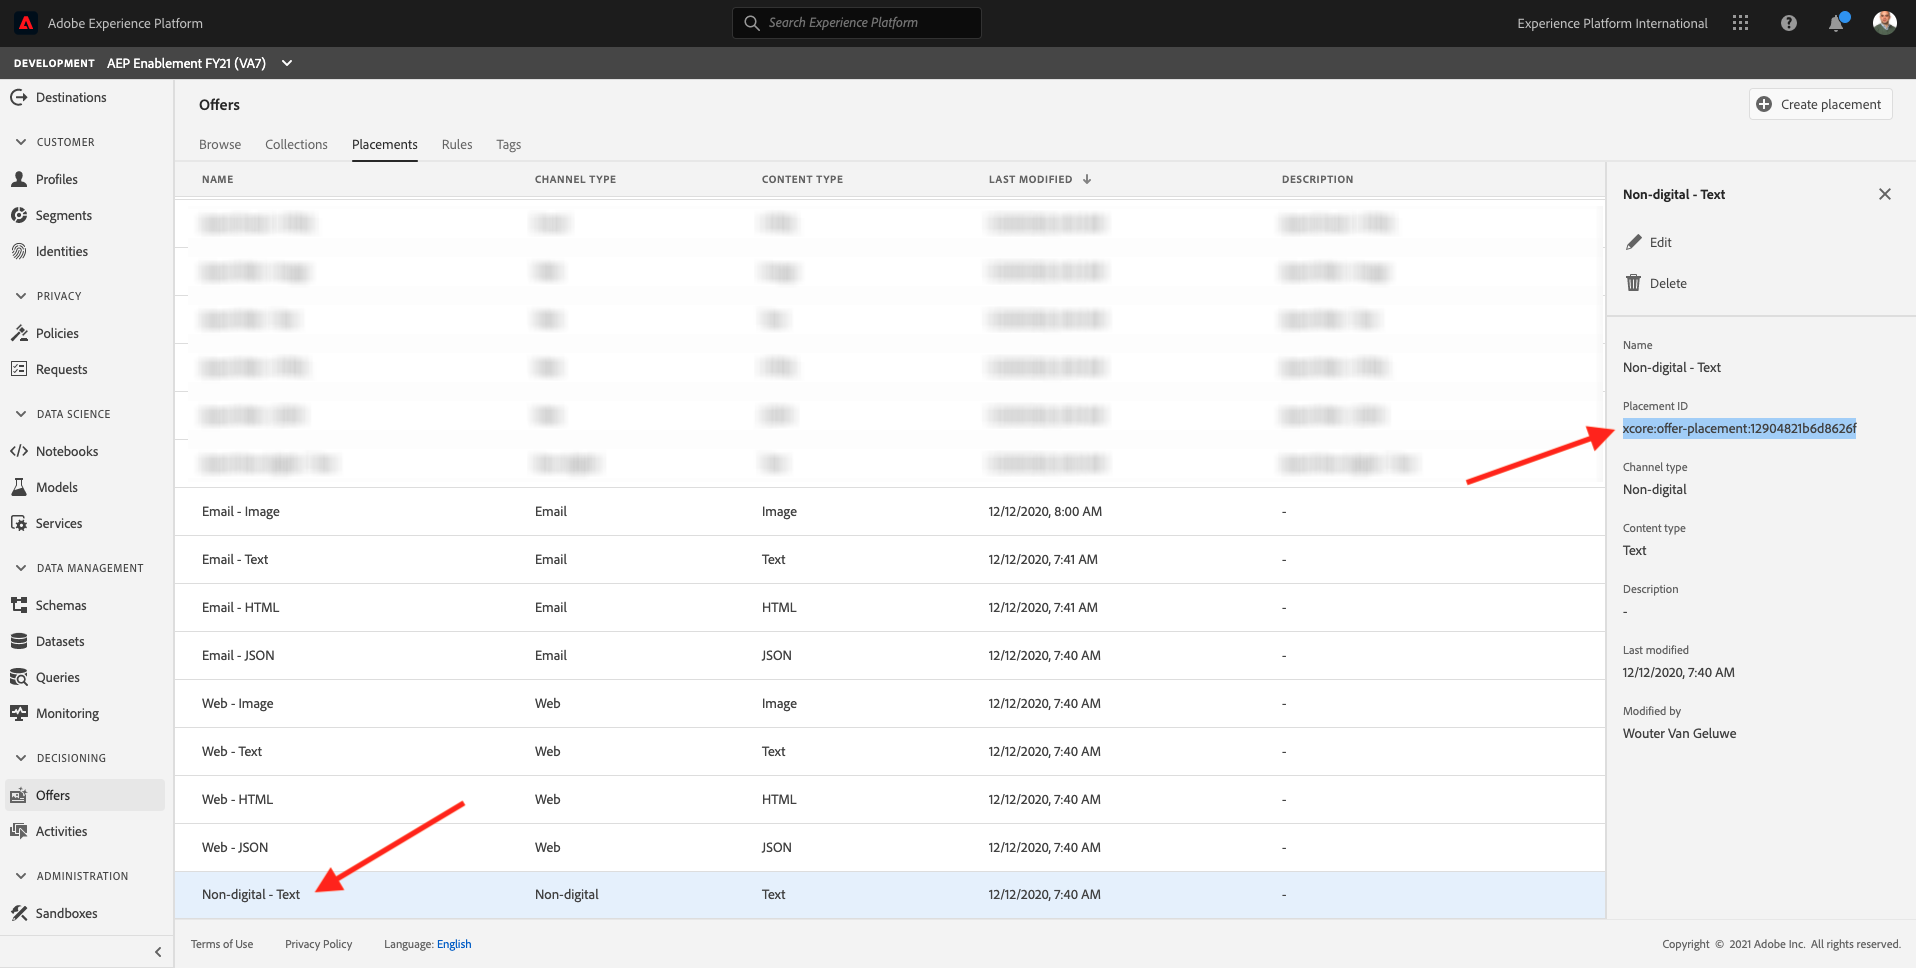
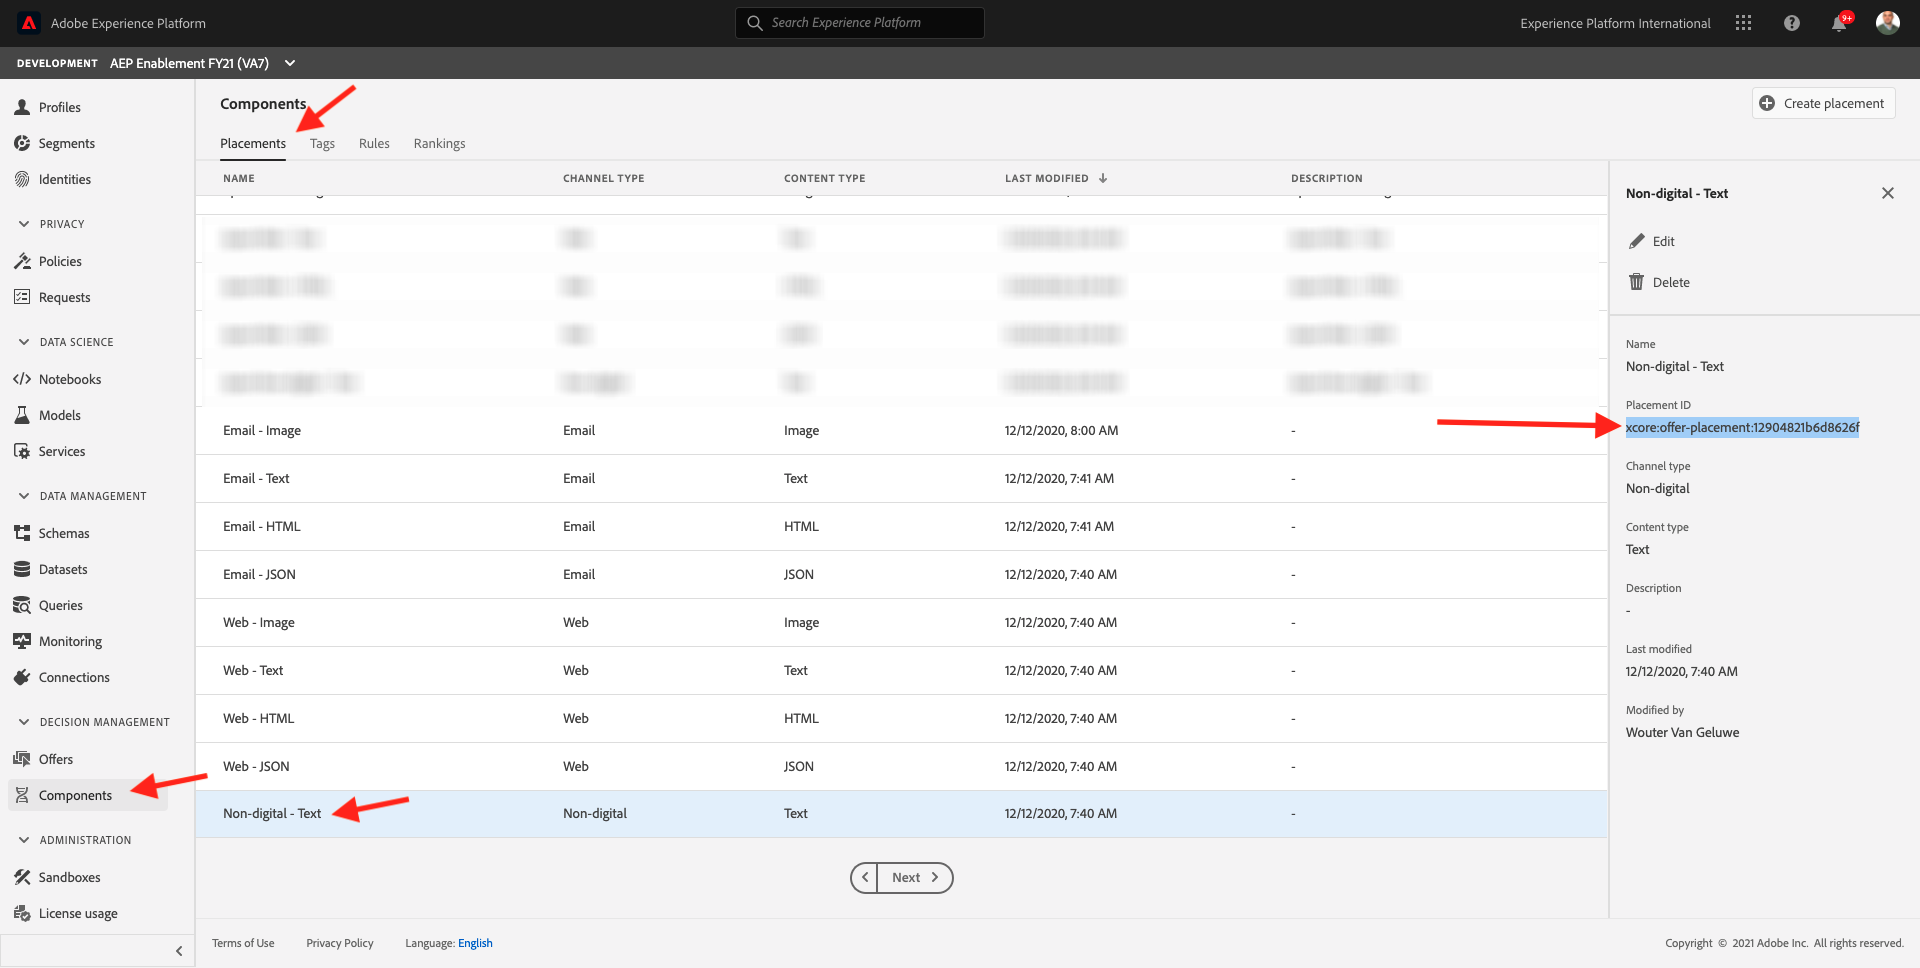
update to module 14

diff --git a/help/tutorial-comprehensive-technical-v21/modules/module14/ex6.md b/help/tutorial-comprehensive-technical-v21/modules/module14/ex6.md
@@ -363,7 +363,7 @@ Next, click the parameter `dynamic val.: eventNS`. For `eventNS`, you need to se
 
 ![Demo](./images/dyn2.png)
 
-Next, click the parameter `dynamic val.: placementId`. For `placementId`, you need to enter the **[!UICONTROL Offer Decisioning Placement ID]** for the placement [!UICONTROL Non-digital - Text]. You can find the **[!UICONTROL Offer Decisioning Placement ID]** by going into Adobe Experience Platform, to Offers, to Placements, and by selecting the placement [!UICONTROL Non-digital - Text].
+Next, click the parameter `dynamic val.: placementId`. For `placementId`, you need to enter the **[!UICONTROL Offer Decisioning Placement ID]** for the placement [!UICONTROL Non-digital - Text]. You can find the **[!UICONTROL Offer Decisioning Placement ID]** by going into Adobe Experience Platform, to Components, to Placements, and by selecting the placement [!UICONTROL Non-digital - Text].
 
 ![Demo](./images/dyn3.png)
 
@@ -373,17 +373,17 @@ Copy the [!UICONTROL Placement ID] and paste it into the popup in Journey Orches
 
 ![Demo](./images/dyn4.png)
 
-Next, click the parameter `dynamic val.: activityId`. For `activityId`, you need to enter the **[!UICONTROL Offer Decisioning Activity ID]**. You can find the **[!UICONTROL Offer Decisioning Activity ID]** by going into Adobe Experience Platform, to Offers, to Activities, and by selecting your Activity.
+Next, click the parameter `dynamic val.: activityId`. For `activityId`, you need to enter the **[!UICONTROL Offer Decisioning Decision ID]**. You can find the **[!UICONTROL Offer Decisioning Decision ID]** by going into Adobe Experience Platform, to Offers, to Decisions, and by selecting your Decision.
 
 ![Demo](./images/dyn5.png)
 
-Copy the [!UICONTROL Activity ID] and paste it into the popup in Journey Orchestration, and don't forget to add `"` at the beginning and ending of the [!UICONTROL Activity ID]. It should look like this:
+Copy the [!UICONTROL Decision ID] and paste it into the popup in Journey Orchestration, and don't forget to add `"` at the beginning and ending of the [!UICONTROL Decision ID]. It should look like this:
 
 `"xcore:offer-activity:1290525f4441fd6e"`
 
 ![Demo](./images/dyn6.png)
 
-Next, click the parameter `dynamic val.: containerId`. For `containerId`, you need to enter the **container instanceId**, which you retrieved through the API in the previous exercise. Copy the container instanceId and don't forget to add `"` at the beginning and ending of the [!UICONTROL Activity ID]. It should look like this:
+Next, click the parameter `dynamic val.: containerId`. For `containerId`, you need to enter the **container instanceId**, which you retrieved through the API in the previous exercise. Copy the container instanceId and don't forget to add `"` at the beginning and ending of the [!UICONTROL Decision ID]. It should look like this:
 
 `"32a2cb0f-63f8-3388-b156-94f4d917abe7"`
 
@@ -534,7 +534,7 @@ Next, click the parameter `dynamic val.: eventNS`. For `eventNS`, you need to se
 
 ![Demo](./images/dyn2a.png)
 
-Next, click the parameter `dynamic val.: placementId`. For `placementId`, you need to enter the **[!UICONTROL Offer Decisioning Placement ID]** for the placement [!UICONTROL Email - Image]. You can find the **[!UICONTROL Offer Decisioning Placement ID]** by going into Adobe Experience Platform, to Offers, to Placements, and by selecting the placement [!UICONTROL Email - Image].
+Next, click the parameter `dynamic val.: placementId`. For `placementId`, you need to enter the **[!UICONTROL Offer Decisioning Placement ID]** for the placement [!UICONTROL Email - Image]. You can find the **[!UICONTROL Offer Decisioning Placement ID]** by going into Adobe Experience Platform, to Components, to Placements, and by selecting the placement [!UICONTROL Email - Image].
 
 ![Demo](./images/dyn3a.png)
 
@@ -544,17 +544,17 @@ Copy the [!UICONTROL Placement ID] and paste it into the popup in Journey Orches
 
 ![Demo](./images/dyn4a.png)
 
-Next, click the parameter `dynamic val.: activityId`. For `activityId`, you need to enter the **[!UICONTROL Offer Decisioning Activity ID]**. You can find the **[!UICONTROL Offer Decisioning Activity ID]** by going into Adobe Experience Platform, to Offers, to Activities, and by selecting your Activity.
+Next, click the parameter `dynamic val.: activityId`. For `activityId`, you need to enter the **[!UICONTROL Offer Decisioning Decision ID]**. You can find the **[!UICONTROL Offer Decisioning Decision ID]** by going into Adobe Experience Platform, to Offers, to Decisions, and by selecting your Decision.
 
 ![Demo](./images/dyn5.png)
 
-Copy the [!UICONTROL Activity ID] and paste it into the popup in Journey Orchestration, and don't forget to add `"` at the beginning and ending of the [!UICONTROL Activity ID]. It should look like this:
+Copy the [!UICONTROL Decision ID] and paste it into the popup in Journey Orchestration, and don't forget to add `"` at the beginning and ending of the [!UICONTROL Decision ID]. It should look like this:
 
 `"xcore:offer-activity:1290525f4441fd6e"`
 
 ![Demo](./images/dyn6a.png)
 
-Next, click the parameter `dynamic val.: containerId`. For `containerId`, you need to enter the **container instanceId**, which you retrieved through the API in the previous exercise. Copy the container instanceId and don't forget to add `"` at the beginning and ending of the [!UICONTROL Activity ID]. It should look like this:
+Next, click the parameter `dynamic val.: containerId`. For `containerId`, you need to enter the **container instanceId**, which you retrieved through the API in the previous exercise. Copy the container instanceId and don't forget to add `"` at the beginning and ending of the [!UICONTROL Decision ID]. It should look like this:
 
 `"32a2cb0f-63f8-3388-b156-94f4d917abe7"`
 
@@ -602,7 +602,7 @@ Next, click the parameter `dynamic val.: eventNS`. For `eventNS`, you need to se
 
 ![Demo](./images/dyn2.png)
 
-Next, click the parameter `dynamic val.: placementId`. For `placementId`, you need to enter the **[!UICONTROL Offer Decisioning Placement ID]** for the placement [!UICONTROL Non-digital - Text]. You can find the **[!UICONTROL Offer Decisioning Placement ID]** by going into Adobe Experience Platform, to Offers, to Placements, and by selecting the placement [!UICONTROL Non-digital - Text].
+Next, click the parameter `dynamic val.: placementId`. For `placementId`, you need to enter the **[!UICONTROL Offer Decisioning Placement ID]** for the placement [!UICONTROL Non-digital - Text]. You can find the **[!UICONTROL Offer Decisioning Placement ID]** by going into Adobe Experience Platform, to Components, to Placements, and by selecting the placement [!UICONTROL Non-digital - Text].
 
 ![Demo](./images/dyn3.png)
 
@@ -612,17 +612,17 @@ Copy the [!UICONTROL Placement ID] and paste it into the popup in Journey Orches
 
 ![Demo](./images/dyn4.png)
 
-Next, click the parameter `dynamic val.: activityId`. For `activityId`, you need to enter the **[!UICONTROL Offer Decisioning Activity ID]**. You can find the **[!UICONTROL Offer Decisioning Activity ID]** by going into Adobe Experience Platform, to Offers, to Activities, and by selecting your Activity.
+Next, click the parameter `dynamic val.: activityId`. For `activityId`, you need to enter the **[!UICONTROL Offer Decisioning Decision ID]**. You can find the **[!UICONTROL Offer Decisioning Decision ID]** by going into Adobe Experience Platform, to Offers, to Decisions, and by selecting your Decision.
 
 ![Demo](./images/dyn5.png)
 
-Copy the [!UICONTROL Activity ID] and paste it into the popup in Journey Orchestration, and don't forget to add `"` at the beginning and ending of the [!UICONTROL Activity ID]. It should look like this:
+Copy the [!UICONTROL Decision ID] and paste it into the popup in Journey Orchestration, and don't forget to add `"` at the beginning and ending of the [!UICONTROL Decision ID]. It should look like this:
 
 `"xcore:offer-activity:1290525f4441fd6e"`
 
 ![Demo](./images/dyn6.png)
 
-Next, click the parameter `dynamic val.: containerId`. For `containerId`, you need to enter the **container instanceId**, which you retrieved through the API in the previous exercise. Copy the container instanceId and don't forget to add `"` at the beginning and ending of the [!UICONTROL Activity ID]. It should look like this:
+Next, click the parameter `dynamic val.: containerId`. For `containerId`, you need to enter the **container instanceId**, which you retrieved through the API in the previous exercise. Copy the container instanceId and don't forget to add `"` at the beginning and ending of the [!UICONTROL Decision ID]. It should look like this:
 
 `"32a2cb0f-63f8-3388-b156-94f4d917abe7"`
 

diff --git a/help/tutorial-comprehensive-technical-v21/modules/module14/ex1.md b/help/tutorial-comprehensive-technical-v21/modules/module14/ex1.md
@@ -25,7 +25,7 @@ Working with Offer Decisioning, you need to understand the following concepts:
 **Capping** | Used in an offer definition to define how many times an offer can be presented in total and to a specific user.
 **Priority** | Level to determine the priority rank from a result set of offers.
 **Collection** | Used to filter out a sub-set of offers from the personalized offer list to speed up the offer decisioning process.
-**Activity** | A combination of a set of offers, placement and profile the marketer wants the decision engine to provide the best offer for.
+**Decision** | A combination of a set of offers, placement and profile the marketer wants the decision engine to provide the best offer for.
 **AEM Assets Essentials** | A universal and centralized experience for storing, finding, and selecting assets across Adobe Experience Cloud Solutions and Adobe Experience Platform. 
 
 ## 14.1.2 Offer Decisioning
@@ -58,7 +58,7 @@ Go to **Placements**.
 
 ![Placements](./images/placements.png)
 
-In the **Placements** tab you can define your placements for your offers. When you define an activity the placement defines where the resulting offer will appear (Channel Type) and in what shape or form (Content Type).
+In the **Placements** tab you can define your placements for your offers. When you define a decision the placement defines where the resulting offer will appear (Channel Type) and in what shape or form (Content Type).
 
 If you don't see any placements in your Adobe Experience Platform instance, please create them as indicated below and in the screenshot.
 
@@ -166,7 +166,7 @@ To configure your **Decision**, click **Decisions**.
 
 ![Decision Rule](./images/activity.png)
 
-In the next exercise, you'll configure your own offers and activity.
+In the next exercise, you'll configure your own offers and decision.
 
 Next Step: [14.2 Configure your Offers and Decision](./ex2.md)
 

diff --git a/help/tutorial-comprehensive-technical-v21/modules/module14/ex3.md b/help/tutorial-comprehensive-technical-v21/modules/module14/ex3.md
@@ -114,7 +114,7 @@ Next, go to [!UICONTROL Offers] and then go to [!UICONTROL Decisions]. Click to 
 
 ![WebSDK](./images/launch7.png)
 
-As you can see in the above image, in this example the [!UICONTROL Decision ID] is `xcore:offer-activity:1290525f4441fd6e`. Write down the [!UICONTROL Decision ID] for your activity [!UICONTROL ldap - Luma Decision] as you'll need it in the next exercise.
+As you can see in the above image, in this example the [!UICONTROL Decision ID] is `xcore:offer-activity:1290525f4441fd6e`. Write down the [!UICONTROL Decision ID] for your decision [!UICONTROL ldap - Luma Decision] as you'll need it in the next exercise.
 
 Now that you've retrieved the two elements you need to create a **[!UICONTROL Decision Scopes]**, you can continue with the next step, which involves encoding the decision scope.
 

diff --git a/help/tutorial-comprehensive-technical-v21/modules/module14/ex2.md b/help/tutorial-comprehensive-technical-v21/modules/module14/ex2.md
@@ -401,7 +401,7 @@ You'll now see this:
 
 ## 14.2.4 Create your Decision
 
-An activity combines Placements, a Collection of Personalized Offers and a Fallback Offer to ultimately be used by the Offer Decisioning engine to find the best offer for a specific profile, based on each of the individual personalized offer characteristics like priority, eligibility constraint and total / user capping.
+A Decision combines Placements, a Collection of Personalized Offers and a Fallback Offer to ultimately be used by the Offer Decisioning engine to find the best offer for a specific profile, based on each of the individual personalized offer characteristics like priority, eligibility constraint and total / user capping.
 
 To configure your **Decision**, go to **Decisions**.
 

diff --git a/help/tutorial-comprehensive-technical-v21/modules/module14/offer-decisioning.md b/help/tutorial-comprehensive-technical-v21/modules/module14/offer-decisioning.md
@@ -57,7 +57,7 @@ In this exercise you'll get a better understanding of all the different concepts
 
 [14.2 Configure your Offers and Decision](./ex2.md)
 
-In this exercise you'll configure your own Personalized Offers and your own Activity, which will then be published.
+In this exercise you'll configure your own Personalized Offers and your own Decision, which will then be published.
 
 [14.3 Prepare your Adobe Experience Platform Data Collection Client property and Web SDK setup for Offer Decisioning](./ex3.md)
 
